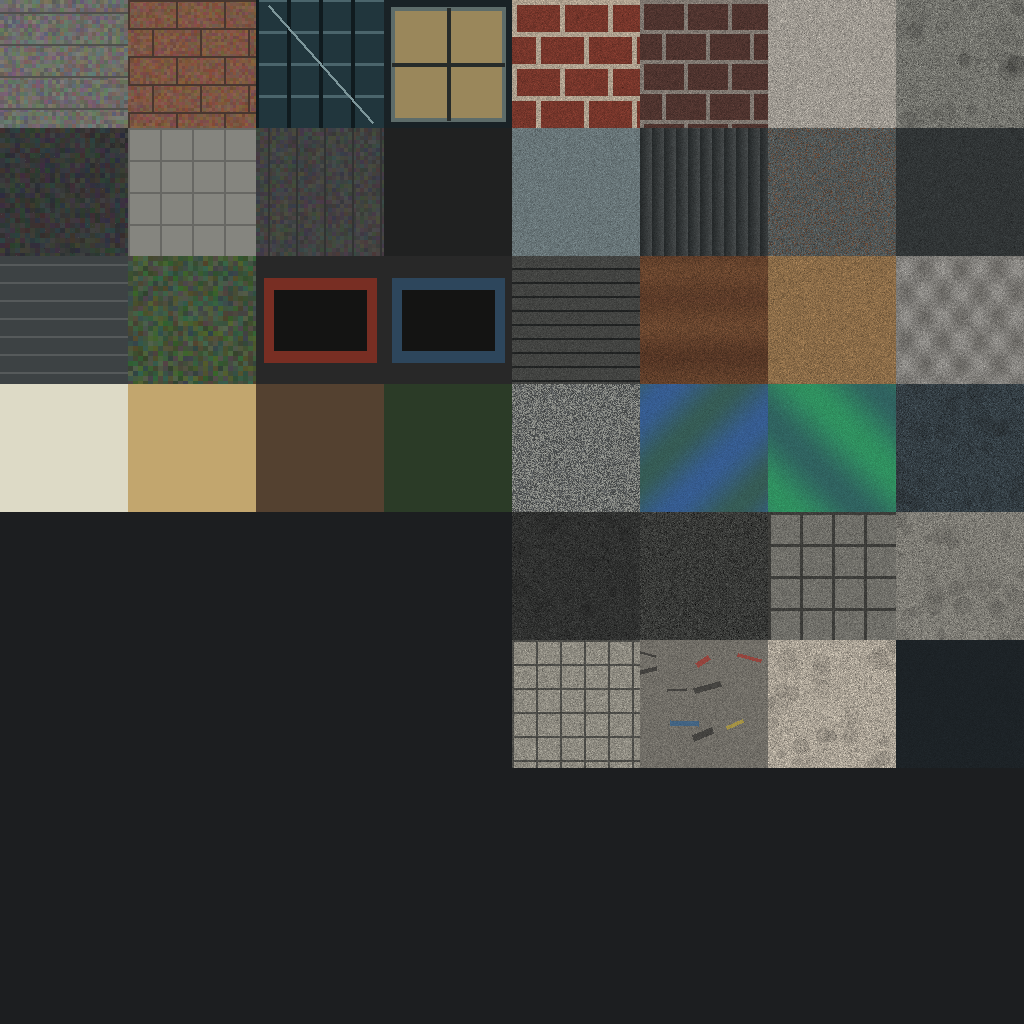
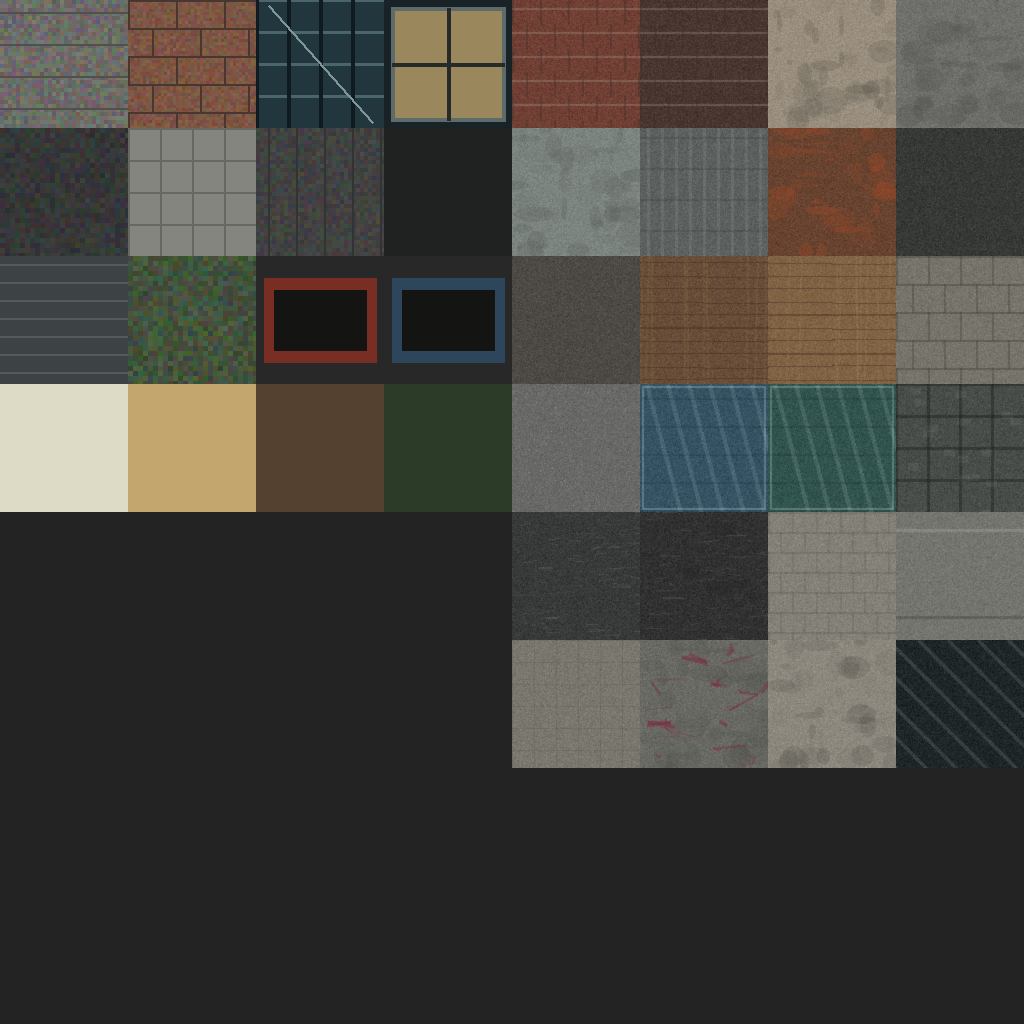
Add files via upload

Changed region(s): [[0.5, 0.0, 1.0, 0.75], [0.9688, 0.6562, 1.0, 0.6875]]

diff --git a/main.js b/main.js
@@ -25,13 +25,13 @@ out vec4 outColor;
 void main(){
  vec4 tex=texture(atlas,vUV);
  float lam=max(dot(normalize(vN),normalize(sunDir)),0.0);
- float hemi=.46+.54*lam;
+ float hemi=.68+.32*lam;
  vec3 c=tex.rgb*vTint.rgb*hemi;
  // Windows carry a warm emissive lift.
  float warm=smoothstep(.56,.8,tex.r)*vTint.a;
- c+=vec3(.10,.065,.025)*warm;
+ c+=vec3(.12,.075,.025)*warm;
  float fog=smoothstep(115.0,180.0,length(vW-cam));
- c=mix(c,vec3(.40,.43,.45),fog*.72);
+ c=mix(c,vec3(.48,.52,.54),fog*.45);
  outColor=vec4(c,1.0);
 }`;
 
@@ -120,7 +120,7 @@ for(let i=-5;i<=5;i++){addBox(i*1.0,.16,-5.9,.36,.012,1.2,"lane");addBox(i*1.0,.
  addBox(-5.9,.16,i*1.0,1.2,.012,.36,"lane");addBox(5.9,.16,i*1.0,1.2,.012,.36,"lane")}
 
 // Building generator.
-const buildingMats=["concrete_dirty","brick_red","brick_dark","stucco_warm","painted_concrete","stone_block","glass_blue","plaster_stain","graffiti_wall"];
+const buildingMats=["concrete_dirty","brick_red","stucco_warm","painted_concrete","brick_dark","stone_block"];
 const facadeTints=["#8d8a83","#6e7272","#565c60","#918477","#64676b","#7a7269"];
 let seed=92317,R=rand(seed);
 function building(x,z,w,d,h,style){
@@ -128,7 +128,7 @@ function building(x,z,w,d,h,style){
  addBox(x,h/2,z,w/2,h/2,d/2,mat,0,true);
  // floor bands and roof mechanical parapet
  for(let y=3.2;y<h-.8;y+=3.2)addBox(x,y,z,w/2+.02,.055,d/2+.02,"dark");
- addBox(x,h+.08,z,w/2+.12,.09,d/2+.12,"roof");
+ addBox(x,h+.08,z,w/2+.12,.09,d/2+.12,(style%2)?"roof_shingle":"roof_tar");
  // windows every facade module
  const cols=Math.max(2,Math.floor(w/2.6)), rows=Math.max(2,Math.floor((h-2)/3.0));
  for(let r=0;r<rows;r++)for(let c=0;c<cols;c++){
@@ -136,19 +136,19 @@ function building(x,z,w,d,h,style){
    if(wy>h-.8)continue;
    const ww=Math.min(1.05,w/cols*.55);
    const on=((c*17+r*13+style*7)%7)<2;
-   addBox(wx,wy,z-d/2-.035,ww,.7,.025,on?(r%3===0?"glass_blue":"window"):"dark_glass",0,false);
-   addBox(wx,wy,z+d/2+.035,ww,.7,.025,on?(r%3===0?"glass_green":"window"):"dark_glass",0,false);
+   addBox(wx,wy,z-d/2-.035,ww,.7,.025,on?(style%3===0?"glass_blue":"window_dirty"):"dark",0,false);
+   addBox(wx,wy,z+d/2+.035,ww,.7,.025,on?(style%2?"glass_green":"window_dirty"):"dark",0,false);
  }
  const sideRows=Math.max(2,Math.floor((h-2)/3.0)), sideCols=Math.max(2,Math.floor(d/3.2));
  for(let r=0;r<sideRows;r++)for(let c=0;c<sideCols;c++){
   const wz=z-d/2+(c+.5)*d/sideCols,wy=2+r*3;
   if(wy>h-.8)continue;
-  addBox(x-w/2-.035,wy,wz,.025,.7,Math.min(1.05,d/sideCols*.55),r%2?"glass_green":"glass_blue");
-  addBox(x+w/2+.035,wy,wz,.025,.7,Math.min(1.05,d/sideCols*.55),r%2?"glass_blue":"window_dirty");
+  addBox(x-w/2-.035,wy,wz,.025,.7,Math.min(1.05,d/sideCols*.55),style%2?"glass_green":"glass_blue");
+  addBox(x+w/2+.035,wy,wz,.025,.7,Math.min(1.05,d/sideCols*.55),style%3?"window_dirty":"glass_blue");
  }
  // entrance + storefront
  addBox(x,1.15,z-d/2-.055,1.35,1.15,.08,"dark");
- addBox(x,1.15,z-d/2-.09,.82,.93,.025,"glass");
+ addBox(x,1.15,z-d/2-.09,.82,.93,.025,"dark_glass");
  if(style%3===0){addBox(x,3.3,z-d/2-.09,2.3,.18,.08,"sign_red");}
  if(style%4===0){addBox(x+.9,h+.55,z,.55,.48,.55,"metal");addBox(x-.9,h+.35,z+.8,.4,.28,.4,"metal");}
 }
@@ -249,60 +249,30 @@ gl.enableVertexAttribArray(1);gl.vertexAttribPointer(1,3,gl.FLOAT,false,stride*4
 gl.enableVertexAttribArray(2);gl.vertexAttribPointer(2,2,gl.FLOAT,false,stride*4,24);
 gl.enableVertexAttribArray(3);gl.vertexAttribPointer(3,4,gl.FLOAT,false,stride*4,32);
 
-// Camera + controls.
+// Mobile-only FPS controls. No keyboard, mouse or pointer-lock path exists in this build.
 const player={x:0,y:1.72,z:31,yaw:0,pitch:0};
-const keys={}, stick={active:false,id:null,x:0,y:0}, look={active:false,id:null,x:0,y:0};
-let running=false, locked=false;
-
-const stickEl=document.getElementById("stick"),knob=document.getElementById("knob"),runBtn=document.getElementById("runBtn");
+const stickEl=document.getElementById("stick"),knob=document.getElementById("knob");
+const lookEl=document.getElementById("lookSurface"),runBtn=document.getElementById("runBtn"),startEl=document.getElementById("start"),enterBtn=document.getElementById("enter");
+const stick={active:false,id:null,x:0,y:0},look={active:false,id:null,x:0,y:0};
+let running=false;
 function stickSet(t){
  const r=stickEl.getBoundingClientRect(),cx=r.left+r.width/2,cy=r.top+r.height/2;
  let dx=t.clientX-cx,dy=t.clientY-cy,m=Math.hypot(dx,dy)||1,max=34,k=Math.min(1,max/m);
  dx*=k;dy*=k;knob.style.transform=`translate(${dx}px,${dy}px)`;stick.x=dx/max;stick.y=dy/max;
 }
-stickEl.addEventListener("touchstart",e=>{e.preventDefault();e.stopPropagation();const t=e.changedTouches[0];stick.active=true;stick.id=t.identifier;stickSet(t)},{passive:false});
-stickEl.addEventListener("touchmove",e=>{e.preventDefault();e.stopPropagation();for(const t of e.changedTouches)if(t.identifier===stick.id)stickSet(t)},{passive:false});
-stickEl.addEventListener("pointerdown",e=>{if(e.pointerType==="touch")return;e.preventDefault();stick.active=true;stick.id=e.pointerId;stickSet(e);stickEl.setPointerCapture?.(e.pointerId)},{passive:false});
-stickEl.addEventListener("pointermove",e=>{if(!stick.active||e.pointerType==="touch")return;e.preventDefault();if(e.pointerId===stick.id)stickSet(e)},{passive:false});
-stickEl.addEventListener("pointerup",e=>{if(e.pointerType==="touch")return;if(e.pointerId===stick.id){stick.active=false;stick.id=null;stick.x=stick.y=0;knob.style.transform="translate(0,0)"}},{passive:false});
-function endStick(e){for(const t of e.changedTouches)if(t.identifier===stick.id){stick.active=false;stick.id=null;stick.x=stick.y=0;knob.style.transform="translate(0,0)"}}
+function endStick(e){for(const t of e.changedTouches||[])if(t.identifier===stick.id){stick.active=false;stick.id=null;stick.x=stick.y=0;knob.style.transform="translate(0,0)"}}
+stickEl.addEventListener("touchstart",e=>{e.preventDefault();const t=e.changedTouches[0];if(stick.active)return;stick.active=true;stick.id=t.identifier;stickSet(t)},{passive:false});
+stickEl.addEventListener("touchmove",e=>{e.preventDefault();for(const t of e.changedTouches)if(t.identifier===stick.id)stickSet(t)},{passive:false});
 stickEl.addEventListener("touchend",endStick,{passive:false});stickEl.addEventListener("touchcancel",endStick,{passive:false});
+lookEl.addEventListener("touchstart",e=>{e.preventDefault();const t=[...e.changedTouches].find(q=>q.clientX>innerWidth*.32);if(!t||look.active)return;look.active=true;look.id=t.identifier;look.x=t.clientX;look.y=t.clientY},{passive:false});
+lookEl.addEventListener("touchmove",e=>{e.preventDefault();for(const t of e.changedTouches)if(look.active&&t.identifier===look.id){player.yaw-=(t.clientX-look.x)*.006;player.pitch=Math.max(-1.42,Math.min(1.42,player.pitch-(t.clientY-look.y)*.0048));look.x=t.clientX;look.y=t.clientY;}},{passive:false});
+function endLook(e){for(const t of e.changedTouches||[])if(look.active&&t.identifier===look.id){look.active=false;look.id=null}}
+lookEl.addEventListener("touchend",endLook,{passive:false});lookEl.addEventListener("touchcancel",endLook,{passive:false});
 runBtn.addEventListener("touchstart",e=>{e.preventDefault();running=true;runBtn.classList.add("pressed")},{passive:false});
-runBtn.addEventListener("touchend",e=>{e.preventDefault();running=false;runBtn.classList.remove("pressed")},{passive:false});
-runBtn.addEventListener("touchcancel",()=>{running=false;runBtn.classList.remove("pressed")},{passive:false});
-
-canvas.addEventListener("touchstart",e=>{
- for(const t of e.changedTouches){
-   if(t.clientX>innerWidth*.34&&!look.active){look.active=true;look.id=t.identifier;look.x=t.clientX;look.y=t.clientY}
- }
- e.preventDefault();
-},{passive:false});
-canvas.addEventListener("touchmove",e=>{
- for(const t of e.changedTouches)if(look.active&&t.identifier===look.id){
-   player.yaw-= (t.clientX-look.x)*.006;
-   player.pitch=Math.max(-1.42,Math.min(1.42,player.pitch-(t.clientY-look.y)*.0048));
-   look.x=t.clientX;look.y=t.clientY;
- }
- e.preventDefault();
-},{passive:false});
-canvas.addEventListener("pointerdown",e=>{
- if(e.pointerType==="touch")return;
- if(e.clientX>innerWidth*.34){look.active=true;look.id=e.pointerId;look.x=e.clientX;look.y=e.clientY;canvas.setPointerCapture?.(e.pointerId)}
-},{passive:false});
-canvas.addEventListener("pointermove",e=>{
- if(e.pointerType==="touch"||!look.active||e.pointerId!==look.id)return;
- player.yaw-=(e.clientX-look.x)*.004;
- player.pitch=Math.max(-1.42,Math.min(1.42,player.pitch-(e.clientY-look.y)*.003));
- look.x=e.clientX;look.y=e.clientY;
-},{passive:false});
-canvas.addEventListener("pointerup",e=>{if(e.pointerType!=="touch"&&look.id===e.pointerId){look.active=false;look.id=null}},{passive:false});
-function endLook(e){for(const t of e.changedTouches)if(look.active&&t.identifier===look.id){look.active=false;look.id=null}}
-canvas.addEventListener("touchend",endLook,{passive:false});canvas.addEventListener("touchcancel",endLook,{passive:false});
-
-function enterCity(e){if(e){e.preventDefault();e.stopPropagation()}const startEl=document.getElementById("start");if(startEl)startEl.style.display="none";}
-const enterBtn=document.getElementById("enter");
-enterBtn.addEventListener("click",enterCity);
-enterBtn.addEventListener("touchend",enterCity,{passive:false});
+function endRun(e){e.preventDefault();running=false;runBtn.classList.remove("pressed")}
+runBtn.addEventListener("touchend",endRun,{passive:false});runBtn.addEventListener("touchcancel",endRun,{passive:false});
+enterBtn.addEventListener("touchend",e=>{e.preventDefault();startEl.style.display="none"},{passive:false});
+enterBtn.addEventListener("click",()=>{startEl.style.display="none"});
 addEventListener("contextmenu",e=>e.preventDefault());
 for(const n of ["gesturestart","gesturechange","gestureend"])addEventListener(n,e=>e.preventDefault(),{passive:false});
 
@@ -314,7 +284,7 @@ function blocked(nx,nz){
  return Math.abs(nx)>106||Math.abs(nz)>106;
 }
 function update(dt){
- let f=-stick.y,s=stick.x;
+ let f=0,s=0;
  if(stick.active||stick.x||stick.y){s=stick.x;f=-stick.y}
  const len=Math.hypot(f,s);if(len>1){f/=len;s/=len}
  const speed=running?8.2:4.5;
@@ -350,7 +320,7 @@ function resize(){
 }
 addEventListener("resize",resize);resize();
 gl.enable(gl.DEPTH_TEST);gl.enable(gl.CULL_FACE);gl.cullFace(gl.BACK);
-gl.clearColor(.34,.38,.40,1);
+gl.clearColor(.55,.62,.65,1);
 
 let last=performance.now(),fps=60,frames=0,ft=last;
 function render(){

diff --git a/style.css b/style.css
@@ -1,2 +1,16 @@
-*{box-sizing:border-box}html,body{margin:0;width:100%;height:100%;overflow:hidden;background:#090a0b;color:#fff;font-family:Arial,Helvetica,sans-serif;overscroll-behavior:none;-webkit-user-select:none;user-select:none;-webkit-touch-callout:none}#game{display:block;width:100%;height:100%;touch-action:none}.brand{font-size:15px;font-weight:800;letter-spacing:.22em}.sub{font-size:9px;letter-spacing:.25em;opacity:.55;margin-top:3px}#stats{font:10px monospace;opacity:.62;margin-top:8px}.help{position:fixed;left:14px;bottom:14px;font-size:10px;opacity:.38}#hud{position:fixed;left:14px;top:14px;pointer-events:none;text-shadow:0 2px 5px #000}.crosshair{pointer-events:none}#crosshair{position:fixed;left:50%;top:50%;width:5px;height:5px;border-radius:50%;margin:-2px 0 0 -2px;background:#fff;opacity:.62;box-shadow:0 0 6px #000}#mobile{position:fixed;inset:0;pointer-events:none;z-index:10}#stick{position:absolute;z-index:20;left:22px;bottom:28px;width:124px;height:124px;border:1px solid rgba(255,255,255,.2);border-radius:50%;background:rgba(20,22,24,.26);box-shadow:inset 0 0 26px rgba(0,0,0,.24);pointer-events:auto;touch-action:none}#knob{position:absolute;left:35px;top:35px;width:52px;height:52px;border-radius:50%;background:rgba(255,255,255,.17);border:1px solid rgba(255,255,255,.28);box-shadow:0 2px 12px rgba(0,0,0,.4);will-change:transform}#runBtn{position:absolute;z-index:20;right:22px;bottom:38px;width:76px;height:76px;border-radius:50%;border:1px solid rgba(255,255,255,.28);background:rgba(18,20,21,.56);color:#fff;font-weight:800;font-size:11px;letter-spacing:.12em;pointer-events:auto;touch-action:none}#runBtn.pressed{background:rgba(255,255,255,.2)}#lookHint{position:absolute;right:28px;top:51%;font:9px monospace;letter-spacing:.16em;opacity:.13;pointer-events:none}#start{position:fixed;inset:0;display:grid;place-items:center;background:radial-gradient(circle at center,rgba(20,24,28,.24),rgba(0,0,0,.72));backdrop-filter:blur(2px)}.panel{text-align:center;padding:32px 34px;border:1px solid rgba(255,255,255,.13);background:rgba(8,9,11,.78);box-shadow:0 20px 80px rgba(0,0,0,.55);margin:18px}.title{font-size:34px;font-weight:900;letter-spacing:.18em}.desc{margin:9px 0 24px;font-size:9px;letter-spacing:.22em;opacity:.52}button#enter{border:1px solid rgba(255,255,255,.35);background:#111;color:#fff;padding:13px 28px;font-size:12px;letter-spacing:.18em}.small{margin-top:13px;font-size:10px;opacity:.48}@media(min-width:800px){#mobile{display:none}}@media(max-width:600px){.help{display:none}.title{font-size:26px}.panel{padding:28px 20px}}
-@media(max-width:799px){#game{touch-action:none}#mobile{pointer-events:none}#stick,#runBtn{pointer-events:auto}#lookHint{display:block}}
+*{box-sizing:border-box}
+html,body{margin:0;width:100%;height:100%;overflow:hidden;background:#0b0d0f;color:#fff;font-family:Arial,Helvetica,sans-serif;overscroll-behavior:none;-webkit-user-select:none;user-select:none;-webkit-touch-callout:none}
+body{touch-action:none}
+#game{display:block;width:100%;height:100%;touch-action:none;background:#8e9ba0}
+.brand{font-size:15px;font-weight:800;letter-spacing:.22em}.sub{font-size:9px;letter-spacing:.25em;opacity:.58;margin-top:3px}#stats{font:10px monospace;opacity:.72;margin-top:8px}.help{position:fixed;left:14px;bottom:14px;font-size:10px;opacity:.5}#hud{position:fixed;left:14px;top:14px;pointer-events:none;text-shadow:0 2px 5px #000}.crosshair{pointer-events:none}
+#crosshair{position:fixed;left:50%;top:50%;width:5px;height:5px;border-radius:50%;margin:-2px 0 0 -2px;background:#fff;opacity:.7;box-shadow:0 0 7px #000}
+#mobile{position:fixed;inset:0;pointer-events:none;z-index:20}
+#stick{position:absolute;left:22px;bottom:28px;width:124px;height:124px;border:1px solid rgba(255,255,255,.24);border-radius:50%;background:rgba(25,28,30,.34);box-shadow:inset 0 0 26px rgba(0,0,0,.28);pointer-events:auto;touch-action:none;z-index:4}
+#knob{position:absolute;left:35px;top:35px;width:52px;height:52px;border-radius:50%;background:rgba(255,255,255,.2);border:1px solid rgba(255,255,255,.34);box-shadow:0 2px 12px rgba(0,0,0,.4);will-change:transform}
+#lookSurface{position:absolute;right:0;top:0;width:68%;height:100%;pointer-events:auto;touch-action:none;background:transparent;z-index:1}
+#runBtn{position:absolute;right:22px;bottom:38px;width:76px;height:76px;border-radius:50%;border:1px solid rgba(255,255,255,.34);background:rgba(18,20,21,.62);color:#fff;font-weight:800;font-size:11px;letter-spacing:.12em;pointer-events:auto;touch-action:none;z-index:5}
+#runBtn.pressed{background:rgba(255,255,255,.22);transform:scale(.97)}
+#lookHint{position:absolute;right:29%;top:51%;font:9px monospace;letter-spacing:.16em;opacity:.16;pointer-events:none;z-index:2}
+#start{position:fixed;inset:0;display:grid;place-items:center;background:radial-gradient(circle at center,rgba(35,42,47,.2),rgba(0,0,0,.66));backdrop-filter:blur(2px);z-index:100}
+.panel{text-align:center;padding:32px 34px;border:1px solid rgba(255,255,255,.16);background:rgba(8,9,11,.76);box-shadow:0 20px 80px rgba(0,0,0,.48);margin:18px}.title{font-size:34px;font-weight:900;letter-spacing:.18em}.desc{margin:9px 0 24px;font-size:9px;letter-spacing:.22em;opacity:.58}button#enter{border:1px solid rgba(255,255,255,.38);background:#15181a;color:#fff;padding:13px 28px;font-size:12px;letter-spacing:.18em}.small{margin-top:13px;font-size:10px;opacity:.56}
+@media(max-width:600px){.help{display:none}.title{font-size:26px}.panel{padding:28px 20px}#stick{left:18px;bottom:22px}#runBtn{right:18px;bottom:26px}}

diff --git a/index.html b/index.html
@@ -12,10 +12,11 @@
 <div id="hud"><div class="brand">BLACK HARVEST</div><div class="sub">REALISTIC CITY BLOCK</div><div id="stats">CITY LOADING</div><div class="help">左：移動　右：視点　RUN：ダッシュ</div></div>
 <div id="crosshair"></div>
 <div id="mobile">
+  <div id="lookSurface" aria-hidden="true"></div>
   <div id="stick"><div id="knob"></div></div>
   <div id="lookHint">SWIPE</div>
   <button id="runBtn">RUN</button>
 </div>
-<div id="start"><div class="panel"><div class="title">BLACK HARVEST</div><div class="desc">OFFLINE / WEBGL2 / CITY PROTOTYPE</div><button id="enter">ENTER CITY</button><div class="small">左スティックで移動。右側をスワイプして視点操作。</div></div></div>
+<div id="start"><div class="panel"><div class="title">BLACK HARVEST</div><div class="desc">OFFLINE / WEBGL2 / CITY PROTOTYPE</div><button id="enter">ENTER CITY</button><div class="small">左スティック：移動　右側スワイプ：FPS視点　RUN：ダッシュ</div></div></div>
 <script src="main.js"></script>
 </body></html>
